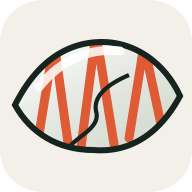
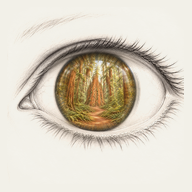
Build concentric forest eye deep zoom

diff --git a/styles.css b/styles.css
@@ -83,50 +83,42 @@ h1 em { color: var(--signal); font-weight: 400; }
 .text-link span { color: var(--signal); font-size: 1rem; transition: transform .2s ease; }
 .text-link:hover span { transform: translateY(3px); }
 
-.field { position: relative; width: min(100%, 610px); justify-self: end; }
-.field svg { display: block; width: 100%; overflow: hidden; }
+.field { position: relative; width: min(100%, 610px); aspect-ratio: 1; justify-self: end; overflow: hidden; }
 @keyframes breathe { 50% { r: 13px; opacity: .45; } }
-.forest-journey { transform-origin: 320px 330px; animation: forest-camera 16s cubic-bezier(.42,0,.2,1) infinite alternate; }
-.forest-journey image { opacity: .96; }
-.eye-form, .iris-reflection, .full-eye-reflection, .eye-sheen { transform-origin: 322px 321px; opacity: 0; }
-.eye-form { animation: eye-form-arrives 16s ease-in-out infinite alternate; }
-.iris-reflection { animation: iris-arrives 16s cubic-bezier(.3,.7,.25,1) infinite alternate; }
-.full-eye-reflection { animation: reflection-expands 16s cubic-bezier(.3,.7,.25,1) infinite alternate; }
-.eye-sheen { animation: sheen-arrives 16s ease-in-out infinite alternate; }
-.eye-shadow { fill: rgba(23, 35, 31, .12); transform: translateY(9px); }
-.glass-wash { fill: url(#glass-wash); }
-.eye-rim, .eye-lid, .eye-highlight, .eye-glint, .iris-ring { fill: none; stroke-linecap: round; }
-.eye-rim { stroke: var(--ink); stroke-width: 2.2; }
-.eye-lid { stroke: var(--signal); stroke-width: 2; opacity: .8; }
-.eye-highlight { stroke: rgba(255,255,255,.82); stroke-width: 12; opacity: .75; }
-.eye-glint { stroke: rgba(255,255,255,.95); stroke-width: 3.5; }
-.iris-wash { fill: rgba(184,198,184,.22); }
-.iris-ring { stroke: rgba(23,35,31,.5); stroke-width: 2; }
-.eye-forest { filter: saturate(.75) contrast(.92); }
-@keyframes forest-camera {
-  0%, 10% { transform: scale(8); opacity: 1; }
-  61%, 69% { transform: scale(1); opacity: 1; }
-  80% { transform: scale(.3); opacity: .72; }
-  86%, 100% { transform: scale(.26); opacity: 0; }
+.forest-eye-camera { position: absolute; inset: 0; overflow: hidden; }
+.forest-eye-art {
+  position: absolute;
+  inset: 0;
+  transform-origin: 50% 50%;
+  will-change: transform;
+  animation: forest-eye-zoom 18s linear infinite alternate;
 }
-@keyframes eye-form-arrives {
-  0%, 69% { opacity: 0; transform: rotate(-5deg) scale(1); }
-  79% { opacity: .66; transform: rotate(-5deg) scale(1); }
-  92%, 100% { opacity: 1; transform: rotate(-5deg) scale(1); }
+.forest-eye-art > picture, .forest-eye-art img { display: block; width: 100%; height: 100%; }
+.forest-eye-art img { object-fit: cover; }
+.eye-glass { position: absolute; inset: 0; width: 100%; height: 100%; opacity: 0; mix-blend-mode: screen; pointer-events: none; animation: glass-focus 18s linear infinite alternate; }
+.eye-glass .glass-wash { fill: url(#cornea-wash); }
+.eye-glass .glass-arc { fill: none; stroke: rgba(255,255,255,.78); stroke-width: 13; stroke-linecap: round; filter: blur(.6px); }
+.eye-glass .glass-flare { fill: url(#cornea-flare); filter: blur(2px); }
+.eye-glass .glass-glint { fill: rgba(255,255,255,.82); filter: blur(.4px); }
+@keyframes forest-eye-zoom {
+  0%, 8% { transform: scale(16); }
+  16% { transform: scale(12.9); }
+  24% { transform: scale(10.4); }
+  32% { transform: scale(8.4); }
+  40% { transform: scale(6.7); }
+  48% { transform: scale(5.4); }
+  56% { transform: scale(4.3); }
+  64% { transform: scale(3.4); }
+  72% { transform: scale(2.65); }
+  80% { transform: scale(1.95); }
+  88% { transform: scale(1.38); }
+  94%, 100% { transform: scale(1); }
 }
-@keyframes iris-arrives {
-  0%, 70% { opacity: 0; transform: rotate(-5deg) scale(.94); }
-  79%, 86% { opacity: 1; transform: rotate(-5deg) scale(1); }
-  96%, 100% { opacity: 0; transform: rotate(-5deg) scale(1); }
-}
-@keyframes reflection-expands {
-  0%, 82% { opacity: 0; transform: rotate(-5deg) scale(1); }
-  89% { opacity: .58; transform: rotate(-5deg) scale(1); }
-  94%, 100% { opacity: 1; transform: rotate(-5deg) scale(1); }
-}
-@keyframes sheen-arrives {
-  0%, 86% { opacity: 0; transform: rotate(-5deg) scale(1); }
-  95%, 100% { opacity: 1; transform: rotate(-5deg) scale(1); }
+@keyframes glass-focus {
+  0%, 72% { opacity: 0; }
+  80% { opacity: .08; }
+  88% { opacity: .28; }
+  94%, 100% { opacity: .32; }
 }
 
 .statement { background: var(--ink); color: var(--paper); padding: 14vh max(4vw, calc((100vw - 1325px)/2)); }
@@ -147,7 +139,7 @@ h3 { font: 400 clamp(1.7rem, 2.4vw, 2.35rem)/1.1 var(--serif); }
 .illustration-frame img { width: 112%; max-width: none; }
 .illustration-evidence img { width: 108%; max-width: none; }
 .illustration-trail { position: relative; height: 280px; }
-.illustration-trail img { width: 100%; max-width: none; object-fit: contain; object-position: center bottom; filter: saturate(.78) contrast(.96); }
+.illustration-trail img { width: 100%; max-width: none; object-fit: cover; object-position: center bottom; filter: saturate(.78) contrast(.96); }
 .approach-illustration svg { display: block; width: 100%; overflow: visible; }
 .approach-illustration path, .approach-illustration ellipse, .approach-illustration circle { fill: none; stroke: var(--ink); stroke-width: 1.5; stroke-linecap: round; stroke-linejoin: round; }
 .approach-illustration .land, .approach-illustration .tree-ring { stroke: var(--sage); }
@@ -285,8 +277,8 @@ footer p { margin: 0; }
 @media (prefers-reduced-motion: reduce) {
   html { scroll-behavior: auto; }
   *, *::before, *::after { animation-duration: .01ms !important; animation-iteration-count: 1 !important; transition-duration: .01ms !important; }
-  .forest-journey, .iris-reflection { display: none; }
-  .eye-form, .full-eye-reflection, .eye-sheen { opacity: 1; transform: rotate(-5deg); }
+  .forest-eye-art { animation: none; transform: scale(1); }
+  .eye-glass { animation: none; opacity: .32; }
   .feedback-loop { aspect-ratio: auto; display: grid; grid-template-columns: repeat(3, 1fr); gap: 1rem; }
   .loop-drawing, .loop-caption { display: none; }
   .loop-node { position: relative; inset: auto; justify-self: center; }

diff --git a/index.html b/index.html
@@ -17,7 +17,7 @@
   <meta name="twitter:image" content="https://lowellappliedresearch.group/assets/og-image.png">
   <title>Lowell Applied Research Group</title>
   <link rel="canonical" href="https://lowellappliedresearch.group/">
-  <link rel="icon" href="/assets/favicon.svg" type="image/svg+xml">
+  <link rel="icon" href="/assets/favicon.png" type="image/png" sizes="32x32">
   <link rel="apple-touch-icon" href="/assets/apple-touch-icon.png">
   <link rel="manifest" href="/site.webmanifest">
   <link rel="stylesheet" href="styles.css">
@@ -57,53 +57,32 @@
       </div>
 
       <div class="field" aria-hidden="true">
-        <svg viewBox="0 0 640 640" role="img">
-          <defs>
-            <clipPath id="glass-eye-clip">
-              <path d="M62 346C117 243 215 182 327 179C431 176 526 228 581 316C524 411 426 461 313 457C203 453 111 414 62 346Z" />
-            </clipPath>
-            <clipPath id="iris-reflection-clip">
-              <ellipse cx="322" cy="321" rx="83" ry="78"/>
-            </clipPath>
-            <linearGradient id="glass-wash" x1=".18" y1=".08" x2=".82" y2=".92">
-              <stop offset="0" stop-color="#fff" stop-opacity=".58"/>
-              <stop offset=".46" stop-color="#dfe8df" stop-opacity=".08"/>
-              <stop offset="1" stop-color="#789083" stop-opacity=".28"/>
-            </linearGradient>
-            <radialGradient id="forest-fade">
-              <stop offset="64%" stop-color="white"/>
-              <stop offset="100%" stop-color="black"/>
-            </radialGradient>
-            <mask id="forest-vignette">
-              <rect width="640" height="640" fill="url(#forest-fade)"/>
-            </mask>
-          </defs>
-          <g class="forest-journey">
-            <image href="/assets/redwood-grove.svg" x="20" y="100" width="600" height="400" preserveAspectRatio="xMidYMid meet" mask="url(#forest-vignette)" />
-          </g>
-          <g class="eye-form">
-            <path class="eye-shadow" d="M65 351C126 431 214 471 316 474C431 477 531 424 589 323C523 414 426 458 315 454C207 451 116 412 65 351Z"/>
-            <path class="eye-rim" d="M62 346C117 243 215 182 327 179C431 176 526 228 581 316C524 411 426 461 313 457C203 453 111 414 62 346Z" />
-            <path class="eye-lid" d="M68 342C151 216 267 175 371 190C456 202 528 250 579 315" />
-          </g>
-          <g class="iris-reflection">
-            <g clip-path="url(#iris-reflection-clip)">
-              <image href="/assets/redwood-grove.svg" x="59" y="146" width="526" height="370" preserveAspectRatio="xMidYMid slice" />
-              <ellipse class="iris-wash" cx="322" cy="321" rx="83" ry="78"/>
-            </g>
-            <ellipse class="iris-ring" cx="322" cy="321" rx="83" ry="78"/>
-          </g>
-          <g class="full-eye-reflection">
-            <g clip-path="url(#glass-eye-clip)">
-              <image class="eye-forest" href="/assets/redwood-grove.svg" x="59" y="146" width="526" height="370" preserveAspectRatio="xMidYMid slice" />
-              <path class="glass-wash" d="M62 346C117 243 215 182 327 179C431 176 526 228 581 316C524 411 426 461 313 457C203 453 111 414 62 346Z"/>
-            </g>
-          </g>
-          <g class="eye-sheen">
-            <path class="eye-highlight" d="M151 288C203 227 278 208 345 215" />
-            <path class="eye-glint" d="M183 269C205 245 230 232 257 224" />
-          </g>
-        </svg>
+        <div class="forest-eye-camera">
+          <div class="forest-eye-art">
+            <picture>
+              <source media="(max-width: 760px)" srcset="/assets/forest-eye-deep-4096.webp">
+              <img src="/assets/forest-eye-deep-master.webp" alt="" width="8192" height="8192" decoding="async" fetchpriority="high">
+            </picture>
+            <svg class="eye-glass" viewBox="0 0 640 640" aria-hidden="true">
+              <defs>
+                <radialGradient id="cornea-wash" cx="38%" cy="31%" r="67%">
+                  <stop offset="0" stop-color="#fff" stop-opacity=".28"/>
+                  <stop offset=".5" stop-color="#dce7df" stop-opacity=".07"/>
+                  <stop offset="1" stop-color="#49685b" stop-opacity=".17"/>
+                </radialGradient>
+                <linearGradient id="cornea-flare" x1=".15" y1=".08" x2=".72" y2=".78">
+                  <stop offset="0" stop-color="#fff" stop-opacity=".82"/>
+                  <stop offset=".45" stop-color="#fff" stop-opacity=".12"/>
+                  <stop offset="1" stop-color="#fff" stop-opacity="0"/>
+                </linearGradient>
+              </defs>
+              <circle class="glass-wash" cx="320" cy="320" r="66"/>
+              <path class="glass-arc" d="M274 304C291 278 322 266 350 273C365 277 376 284 386 295"/>
+              <ellipse class="glass-flare" cx="296" cy="292" rx="27" ry="10" transform="rotate(-24 296 292)"/>
+              <circle class="glass-glint" cx="354" cy="302" r="4"/>
+            </svg>
+          </div>
+        </div>
       </div>
     </section>
 
@@ -144,7 +123,7 @@
             <p>Share the reasoning, limits, and practical implications so the work can travel beyond the place it began.</p>
           </div>
           <figure class="approach-illustration illustration-trail" aria-label="A winding trail leads through a grove of orange-trunked redwoods">
-            <img src="/assets/redwood-grove.svg" alt="" width="1200" height="800">
+            <img src="/assets/redwood-grove-final.webp" alt="" width="1254" height="800" loading="lazy" decoding="async">
           </figure>
         </li>
       </ol>
